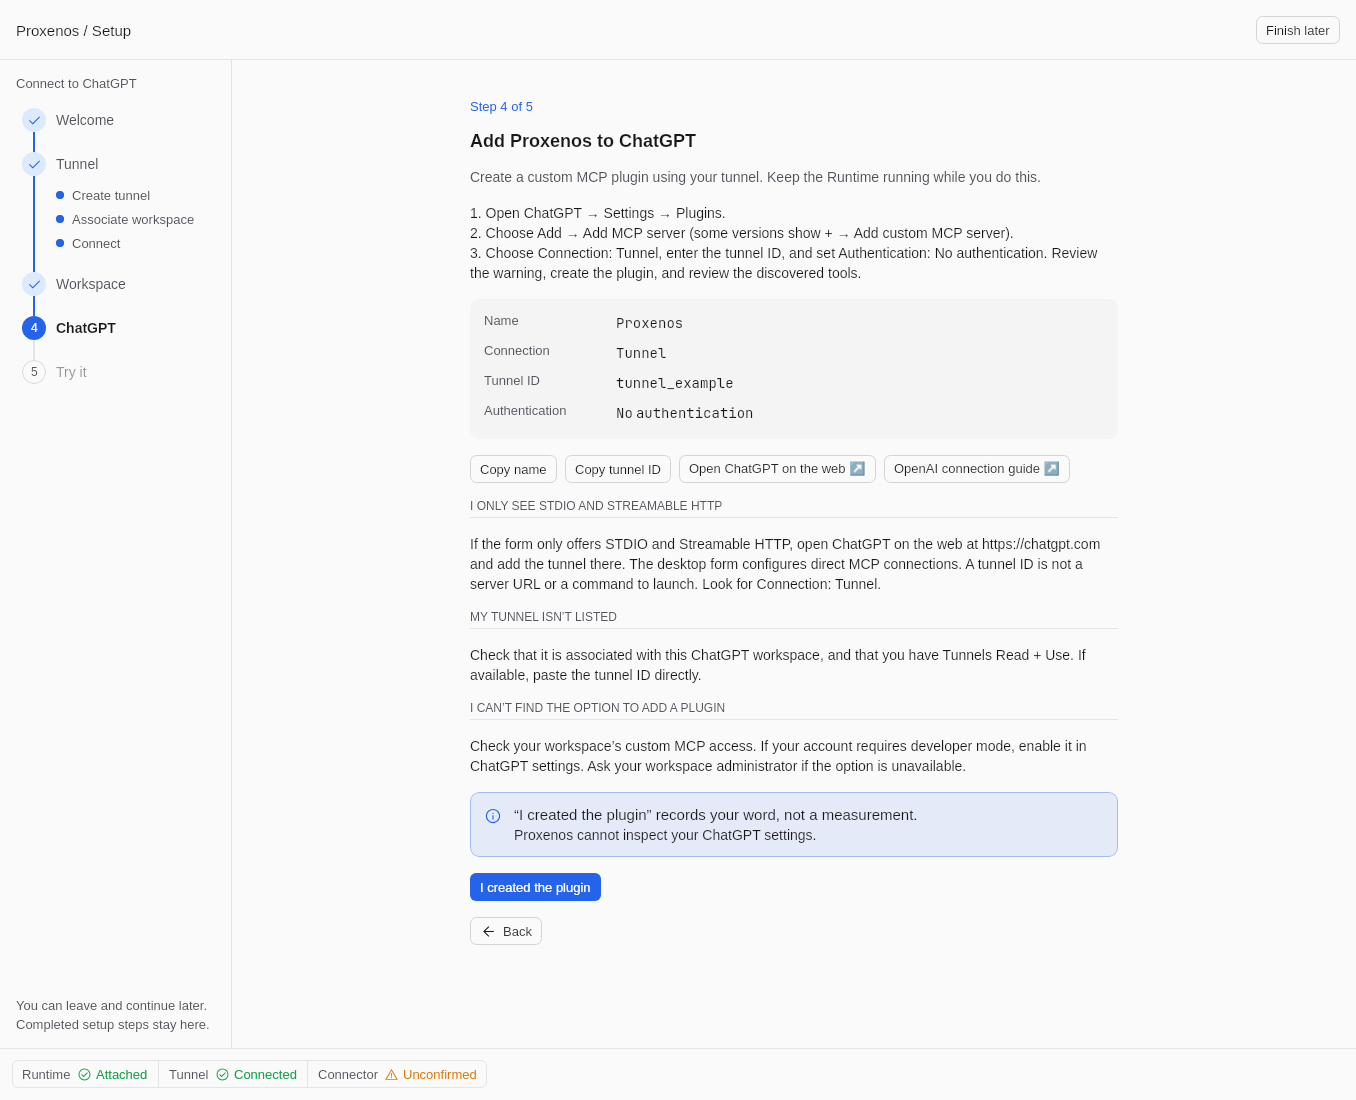
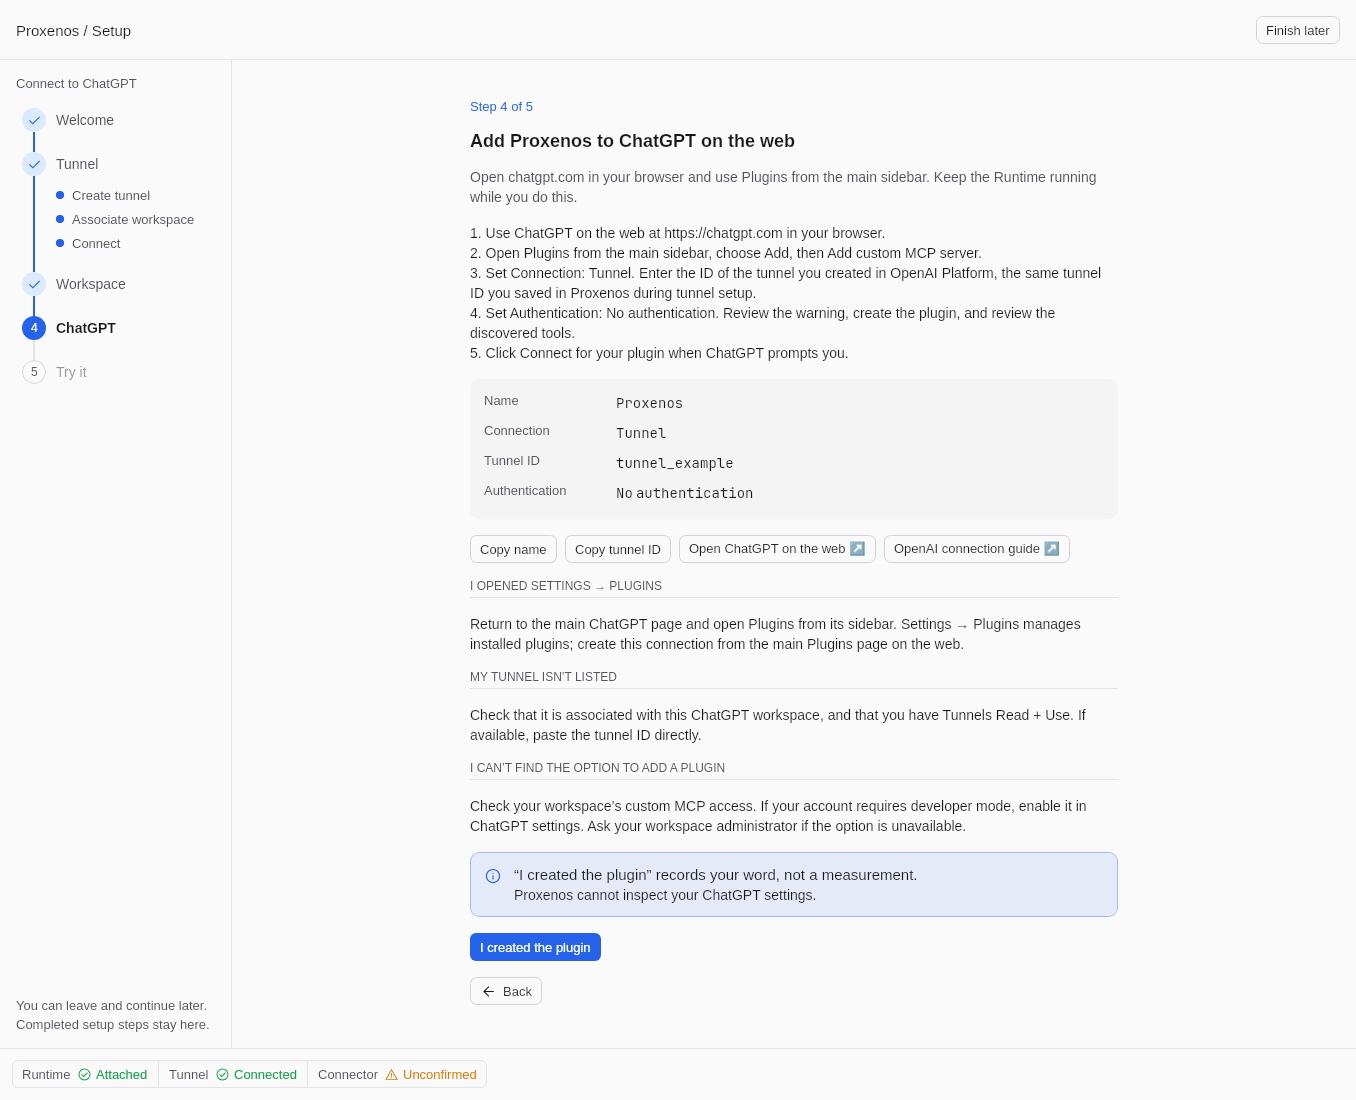
Guide ChatGPT setup through the web Plugins page

Changed region(s): [[0.3407, 0.4636, 0.8053, 0.9273], [0.3407, 0.1236, 0.8053, 0.4636]]

diff --git a/gui/src/main/kotlin/io/github/kzagoris/proxenos/gui/SetupPane.kt b/gui/src/main/kotlin/io/github/kzagoris/proxenos/gui/SetupPane.kt
@@ -307,7 +307,7 @@ private fun SetupWorkspace(state: GuiState, send: (GuiIntent) -> Unit, chooser: 
 @Composable
 private fun SetupChatGPT(state: GuiState, send: (GuiIntent) -> Unit) {
   val tunnelId = state.setupSavedTunnelId ?: state.setupTunnelId
-  SetupTitle("Add Proxenos to ChatGPT", "Create a custom MCP plugin using your tunnel. Keep the Runtime running while you do this.")
+  SetupTitle("Add Proxenos to ChatGPT on the web", "Open chatgpt.com in your browser and use Plugins from the main sidebar. Keep the Runtime running while you do this.")
   Text(Wording.CHATGPT_MCP_STEPS)
   ValueCard(listOf("Name" to "Proxenos", "Connection" to "Tunnel",
     "Tunnel ID" to tunnelId.ifBlank { "Use the tunnel configured for this Runtime" }, "Authentication" to "No authentication"))
@@ -317,8 +317,8 @@ private fun SetupChatGPT(state: GuiState, send: (GuiIntent) -> Unit) {
     SetupLink("Open ChatGPT on the web", CHATGPT)
     SetupLink("OpenAI connection guide", Wording.CHATGPT_CONNECTION_GUIDE)
   }
-  Section("I only see STDIO and Streamable HTTP")
-  Text(Wording.CHATGPT_DIRECT_MCP)
+  Section("I opened Settings → Plugins")
+  Text("Return to the main ChatGPT page and open Plugins from its sidebar. Settings → Plugins manages installed plugins; create this connection from the main Plugins page on the web.")
   Section("My tunnel isn’t listed")
   Text("Check that it is associated with this ChatGPT workspace, and that you have Tunnels Read + Use. If available, paste the tunnel ID directly.")
   Section("I can’t find the option to add a plugin")
@@ -337,7 +337,7 @@ private fun SetupTry(state: GuiState, send: (GuiIntent) -> Unit) {
     Shaded { SelectionContainer { Text(progress.prompt(state.snapshot), fontFamily = LocalMono.current) } }
     FlowRow(horizontalArrangement = Arrangement.spacedBy(8.dp), verticalArrangement = Arrangement.spacedBy(8.dp)) {
       SetupCopy("Copy prompt", progress.prompt(state.snapshot))
-    SetupLink("Open ChatGPT on the web", CHATGPT)
+      SetupLink("Open ChatGPT on the web", CHATGPT)
     }
     SetupNote("The Operation will also appear in Activity.", title = "Waiting for a successful ChatGPT Root listing",
       busy = state.snapshot?.runtime?.state == RuntimeState.Connected && progress.selected(state.snapshot) != null)

diff --git a/frontend/src/main/kotlin/io/github/kzagoris/proxenos/frontend/Wording.kt b/frontend/src/main/kotlin/io/github/kzagoris/proxenos/frontend/Wording.kt
@@ -183,15 +183,12 @@ object Wording {
       "once, so that silence is expected rather than a fault to hunt."
 
   const val CHATGPT_MCP_STEPS: String =
-    "1. Open ChatGPT → Settings → Plugins.\n" +
-      "2. Choose Add → Add MCP server (some versions show + → Add custom MCP server).\n" +
-      "3. Choose Connection: Tunnel, enter the tunnel ID, and set Authentication: No authentication. " +
-      "Review the warning, create the plugin, and review the discovered tools."
-
-  const val CHATGPT_DIRECT_MCP: String =
-    "If the form only offers STDIO and Streamable HTTP, open ChatGPT on the web at https://chatgpt.com " +
-      "and add the tunnel there. The desktop form configures direct MCP connections. " +
-      "A tunnel ID is not a server URL or a command to launch. Look for Connection: Tunnel."
+    "1. Use ChatGPT on the web at https://chatgpt.com in your browser.\n" +
+      "2. Open Plugins from the main sidebar, choose Add, then Add custom MCP server.\n" +
+      "3. Set Connection: Tunnel. Enter the ID of the tunnel you created in OpenAI Platform, " +
+      "the same tunnel ID you saved in Proxenos during tunnel setup.\n" +
+      "4. Set Authentication: No authentication. Review the warning, create the plugin, and review the discovered tools.\n" +
+      "5. Click Connect for your plugin when ChatGPT prompts you."
 
   const val CHATGPT_CONNECTION_GUIDE: String = "https://developers.openai.com/plugins/deploy/connect-chatgpt"
 
@@ -204,7 +201,6 @@ object Wording {
     "Connector Unconfirmed: this Runtime cannot verify that ChatGPT is using a connector created from this Runtime's current tool list. " +
       "ChatGPT saves that tool list when the connector is created and does not refresh it later. Create the connector again:",
     "Delete the app in ChatGPT, then follow these steps: ${CHATGPT_MCP_STEPS.replace('\n', ' ')}",
-    CHATGPT_DIRECT_MCP,
     "Use No authentication, not the OAuth default: this MCP endpoint does not implement OAuth. " +
       "The Runtime uses the runtime key saved on this machine to connect to the tunnel.",
     "Nothing on this machine can check whether these were done. $acknowledge records your word that they were; it is not a measurement.",

diff --git a/gui/src/test/kotlin/io/github/kzagoris/proxenos/gui/ShellTest.kt b/gui/src/test/kotlin/io/github/kzagoris/proxenos/gui/ShellTest.kt
@@ -241,8 +241,8 @@ class ShellTest {
   fun `Unconfirmed shows the literal steps and records only the user's word`() = runComposeUiTest {
     val gui = shell(attached(RuntimeState.Connected, unconfirmed = true).after(GuiIntent.ShowStage(Stage.Connector)))
     onNodeWithText("Delete the app in ChatGPT", substring = true).assertExists()
-    onNodeWithText("Add → Add MCP server", substring = true).assertExists()
-    onNodeWithText("Connection: Tunnel, enter the tunnel ID", substring = true).assertExists()
+    onNodeWithText("Plugins from the main sidebar", substring = true).assertExists()
+    onNodeWithText("Connection: Tunnel", substring = true).assertExists()
     onNodeWithText("Authentication: No authentication", substring = true).assertExists()
     onNodeWithText("records your word", substring = true).assertExists()
     onNodeWithText("I created the connector again").assertIsEnabled().performClick()

diff --git a/tui/src/test/kotlin/io/github/kzagoris/proxenos/tui/HomeScreenTest.kt b/tui/src/test/kotlin/io/github/kzagoris/proxenos/tui/HomeScreenTest.kt
@@ -355,7 +355,7 @@ class HomeScreenTest {
     assertFalse("Delete the app" in fresh.prose())
     assertTrue("No workspaces yet" in fresh.prose())
     val prose = fresh.keys("i", "ArrowDown", "ArrowDown", "Enter").prose()
-    for (step in listOf("Delete the app in ChatGPT", "Add MCP server", "Connection: Tunnel", "No authentication, not the OAuth default")) assertTrue(step in prose)
+    for (step in listOf("Delete the app in ChatGPT", "Add custom MCP server", "Connection: Tunnel", "No authentication, not the OAuth default")) assertTrue(step in prose)
   }
 
   @Test

diff --git a/README.md b/README.md
@@ -116,10 +116,10 @@ five steps:
    when you cannot find a setting. **Save & connect** saves the credentials and starts the Runtime.
 3. **Workspace** registers a directory at **Read**, or lets you choose a workspace you have
    already registered.
-4. **ChatGPT** opens the plugin handoff: **Settings → Plugins → Add → Add MCP server**,
-   then **Connection · Tunnel**, your tunnel ID, and **No authentication**. If the desktop form
-   only offers STDIO and Streamable HTTP, use **Open ChatGPT on the web** to add the tunnel.
-   Create the plugin in ChatGPT, then confirm here.
+4. **ChatGPT** guides creation in **ChatGPT on the web**: open **Plugins from the main sidebar**,
+   then **Add → Add custom MCP server**. Set **Connection · Tunnel**, enter the same tunnel ID
+   from the tunnel you created in OpenAI Platform, and choose **No authentication**.
+   Create and connect the plugin in ChatGPT, then confirm here.
 5. **Try it** waits until ChatGPT lists the workspace's root with `list_directory`, then shows
    the Operation it received and when. Your confirmation in step 4 does not count; only a real,
    successful request from ChatGPT does.
@@ -128,7 +128,7 @@ five steps:
 
 ![Tunnel step: links to Platform tunnel settings, expandable creation and tunnel ID guides, and the tunnel ID field](docs/images/gui-setup-tunnel.png)
 
-![ChatGPT step: current Add MCP server menu labels, Tunnel settings, and the web handoff when the desktop form only offers STDIO and Streamable HTTP](docs/images/gui-setup-chatgpt.png)
+![ChatGPT step: web-only instructions, Plugins in the main sidebar, and the tunnel ID from the tunnel created in OpenAI Platform](docs/images/gui-setup-chatgpt.png)
 
 You can leave at any point: **Finish later** returns to the main window, and **Continue setup**
 in **Connection** picks up where you left off. Closing the window keeps your completed steps and
@@ -190,30 +190,30 @@ You can also register a workspace before starting the Runtime:
 
 This command registers it at Read and requires the Runtime to be stopped. Use the desktop app or the dashboard to register directories while the Runtime is running.
 
-## 4. Create the connection in ChatGPT
+## 4. Create the connection in ChatGPT on the web
 
 Desktop setup includes this handoff and the first-request check. These are also the steps to
 follow after terminal setup, or when you need to create the connection again.
 
-Keep the Runtime running throughout these steps.
+**Use ChatGPT on the web in your browser at [chatgpt.com](https://chatgpt.com/).** Open
+**Plugins from the main sidebar**. **Settings → Plugins** manages installed plugins; it is
+not the page for creating this connection. Keep the Runtime running throughout these steps.
 
-1. Open ChatGPT's **Settings → Plugins**. If your account requires developer mode for custom MCP access, enable it in settings; a workspace administrator may need to grant access first.
-2. Select **Add → Add MCP server**. Some versions label this **+ → Add custom MCP server**.
+1. Open **Plugins from the main sidebar**. If your account requires developer mode for custom MCP access, enable it in settings; a workspace administrator may need to grant access first.
+2. Select **Add → Add custom MCP server** to open the connection form.
 3. Give it a name such as **Proxenos** and a description such as “Read and work with my registered local workspaces.”
-4. In the connection form, choose **Connection → Tunnel** and select your tunnel or enter the `tunnel_...` ID shown during setup. If the form only offers **Type → STDIO / Streamable HTTP**, open [ChatGPT on the web](https://chatgpt.com/) and add the tunnel there. That desktop form configures direct MCP connections; the tunnel ID is neither a server URL nor a command to launch. Look for the form with **Connection → Tunnel**.
+4. Set **Connection → Tunnel**. Enter the ID of the tunnel you created in OpenAI Platform: **the same `tunnel_...` ID you saved in Proxenos during tunnel setup**. Use **Copy tunnel ID** in the Proxenos setup screen to copy that value.
 5. Set **Authentication** to **No authentication**. The dialog defaults to OAuth, which fails before any tool call. This application's MCP endpoint does not implement OAuth; the tunnel uses the runtime key you saved locally.
-6. Review and accept ChatGPT's warning, create the plugin (**Create as a plugin** in the documented web flow), and review the discovered tools. Install or connect **Proxenos** if prompted.
+6. Review and accept ChatGPT's warning, create the plugin (**Create as a plugin** in the documented web flow), and review the discovered tools. When the connection dialog appears, click **Connect Proxenos** (or **Connect** followed by the name you chose).
 7. Start a new conversation, type **`@`**, and pick **Proxenos** from the **Plugins** list.
 
 With ChatGPT's default permission, **Allow low-risk tools**, read-only calls such as `git_status` run at once, while calls that change files or run commands may ask for approval first. **See details** in that prompt shows the exact arguments, including the command.
 
-The desktop menu labels were checked against screenshots on October 14, 2026. OpenAI's
+The web navigation and connection dialog were checked against screenshots on October 14, 2026. OpenAI's
 [connection guide](https://developers.openai.com/plugins/deploy/connect-chatgpt) and
 [Secure MCP Tunnel guide](https://developers.openai.com/api/docs/guides/secure-mcp-tunnels)
-still describe a separate **Connection → Tunnel** form. Its
-[desktop MCP guide](https://learn.chatgpt.com/docs/extend/mcp?surface=desktop) describes direct
-STDIO and Streamable HTTP connections. UI labels and tunnel availability can vary by account
-and surface; the desktop form shown in those screenshots has no Tunnel option.
+describe the **Connection → Tunnel** form used here. UI labels and tunnel availability can
+vary by account; these instructions are for the web Plugins page.
 
 Ask ChatGPT:
 

diff --git a/docs/INSTALL.md b/docs/INSTALL.md
@@ -252,19 +252,19 @@ command…**; and **Connection** (`Ctrl+3`), one row each for **Runtime**, **Tun
 Runtime and every Access Level as they were.
 
 On a fresh install the status line shows **Connector · Unconfirmed**. Under **Connection →
-Connector** are the instructions: **Settings → Plugins → Add → Add MCP server** (or
-**+ → Add custom MCP server**), set **Connection** to
-**Tunnel** with your tunnel ID, and choose **No authentication**. Select **I created the
+Connector** are the instructions: **use ChatGPT on the web at [chatgpt.com](https://chatgpt.com/)**,
+open **Plugins from the main sidebar → Add → Add custom MCP server**, set **Connection** to
+**Tunnel**, enter **the same tunnel ID from the tunnel you created in OpenAI Platform and saved
+in Proxenos**, and choose **No authentication**. Create the plugin, review its tools, and click
+**Connect** for the plugin when prompted. Select **I created the
 connector again** once you have completed setup; this records your confirmation, not a
 connectivity measurement. **Connection → Runtime** has **Stop Runtime…**, and **Start Runtime**
 while it is stopped.
 
-If ChatGPT's desktop form only offers **STDIO** and **Streamable HTTP**, open
-[ChatGPT on the web](https://chatgpt.com/) and add the tunnel there. The desktop form configures
-direct MCP connections; a tunnel ID is neither a server URL nor a command to launch. Look for
-**Connection → Tunnel**, as described in OpenAI's
-[connection guide](https://developers.openai.com/plugins/deploy/connect-chatgpt). If Tunnel is
-unavailable there too, check custom MCP access with your ChatGPT workspace administrator.
+**Settings → Plugins** on the web manages installed plugins. Creation is on the main
+**Plugins** page, as described in OpenAI's
+[connection guide](https://developers.openai.com/plugins/deploy/connect-chatgpt). If custom MCP
+access is unavailable there, check with your ChatGPT workspace administrator.
 
 From a terminal, or on the portable archive, use the TUI:
 
@@ -279,8 +279,8 @@ run only; previous runs stay stored in the Runtime but are not shown in either f
 In the TUI, `[i]` opens **Review**: one row per link — **Runtime**, **Tunnel**, **Connector** — each with
 its own state, and `[Enter]` opens the selected row's detail. On a fresh install the status
 line shows **Connector · Unconfirmed**; the Connector detail carries the instructions:
-**Settings → Plugins → Add → Add MCP server** (or **+ → Add custom MCP server**), set
-**Connection** to **Tunnel** with your tunnel ID, and
+**ChatGPT on the web → Plugins from the main sidebar → Add → Add custom MCP server**, set
+**Connection** to **Tunnel**, enter **the same tunnel ID from your OpenAI Platform tunnel**, and
 choose **No authentication**. Press `[C]` there once you have
 completed setup; this records your confirmation, not a connectivity measurement.
 A connection failure and the tunnel's own words are on the Tunnel row and its detail. A stage
